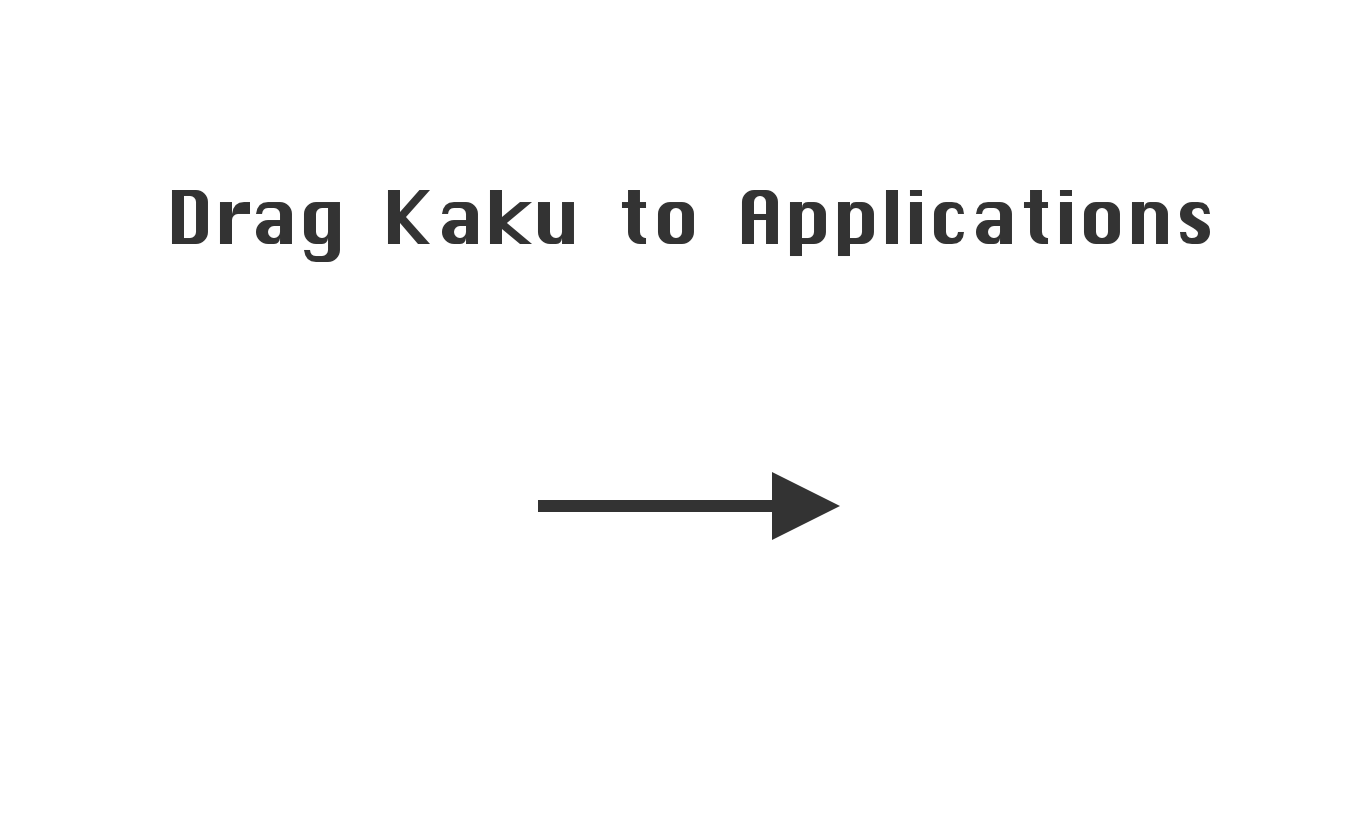
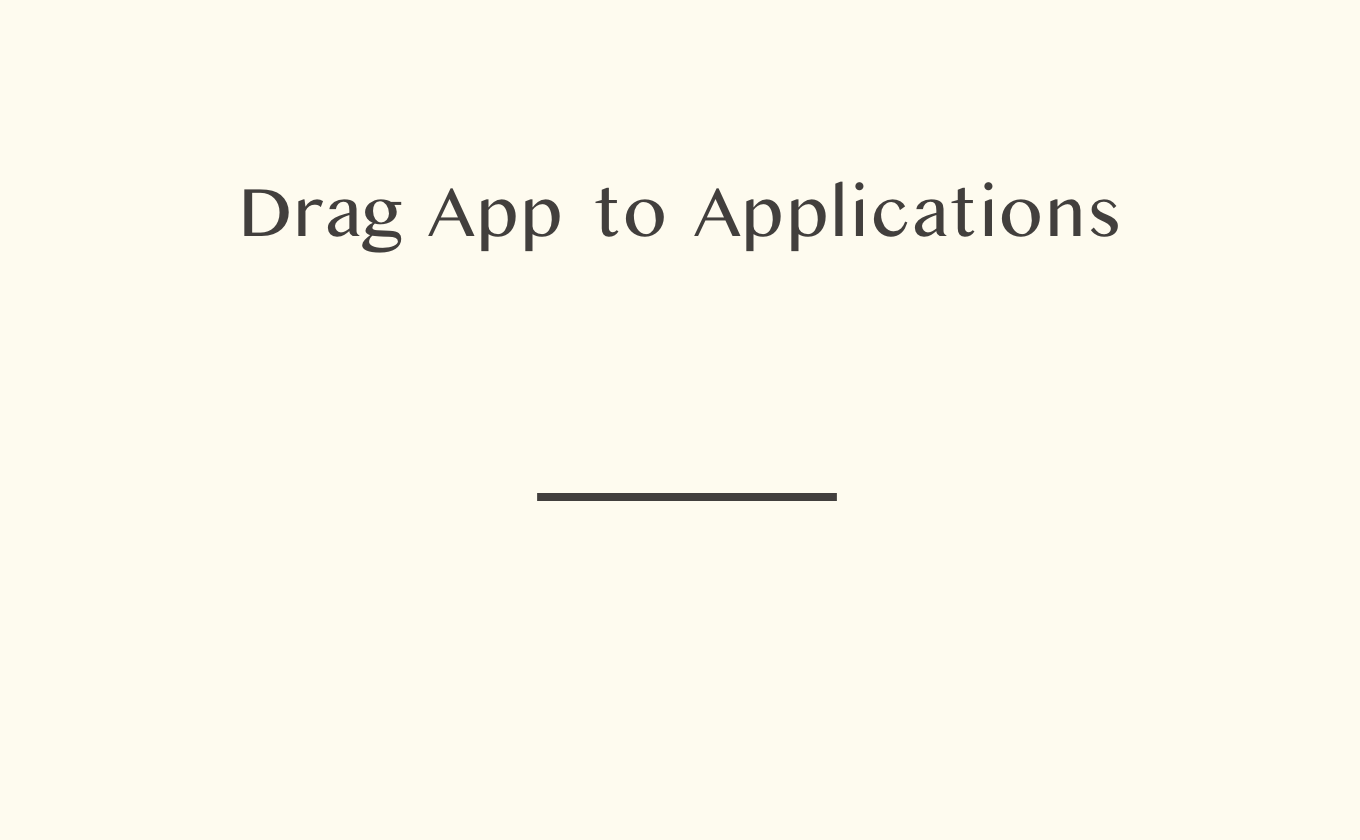
feat(color): add truecolor overrides and update build UX

Changed region(s): [[0.1235, 0.2167, 0.8956, 0.3095], [0.3706, 0.5571, 0.6176, 0.65]]

diff --git a/config/src/color.rs b/config/src/color.rs
@@ -75,6 +75,12 @@ impl From<RgbaColor> for String {
     }
 }
 
+impl std::fmt::Display for RgbaColor {
+    fn fmt(&self, f: &mut std::fmt::Formatter<'_>) -> std::fmt::Result {
+        write!(f, "{}", self.color.to_string())
+    }
+}
+
 impl From<RgbaColor> for SrgbaTuple {
     fn from(val: RgbaColor) -> Self {
         val.color
@@ -176,6 +182,12 @@ pub struct Palette {
 
     pub launcher_label_fg: Option<ColorSpec>,
     pub launcher_label_bg: Option<ColorSpec>,
+
+    /// Map true colors to replacement colors.
+    /// This is useful for overriding colors that applications output via
+    /// 24-bit true color escape sequences.
+    #[dynamic(default)]
+    pub color_overrides: HashMap<RgbaColor, RgbaColor>,
 }
 impl_lua_conversion_dynamic!(Palette);
 
@@ -229,6 +241,13 @@ impl Palette {
             input_selector_label_bg: overlay!(input_selector_label_bg),
             launcher_label_fg: overlay!(launcher_label_fg),
             launcher_label_bg: overlay!(launcher_label_bg),
+            color_overrides: {
+                let mut map = self.color_overrides.clone();
+                for (k, v) in &other.color_overrides {
+                    map.insert(*k, *v);
+                }
+                map
+            },
         }
     }
 }
@@ -265,6 +284,10 @@ impl From<ColorPalette> for Palette {
 
         for (idx, col) in cp.colors.0.iter().enumerate().skip(16) {
             p.indexed.insert(idx as u8, (*col).into());
+        }
+
+        for (&from, &to) in &cp.color_overrides {
+            p.color_overrides.insert(from.into(), to.into());
         }
 
         p
@@ -311,6 +334,9 @@ impl From<Palette> for ColorPalette {
                 continue;
             }
             p.colors.0[idx as usize] = col.into();
+        }
+        for (&from, &to) in &cfg.color_overrides {
+            p.color_overrides.insert(from.into(), to.into());
         }
         p
     }

diff --git a/term/src/color.rs b/term/src/color.rs
@@ -2,6 +2,7 @@
 
 #[cfg(feature = "use_serde")]
 use serde::{Deserialize, Deserializer, Serialize, Serializer};
+use std::collections::HashMap;
 use std::fmt;
 use std::result::Result;
 pub use wezterm_cell::color::{AnsiColor, ColorAttribute, RgbColor, SrgbaTuple};
@@ -56,6 +57,9 @@ pub struct ColorPalette {
     pub selection_bg: SrgbaTuple,
     pub scrollbar_thumb: SrgbaTuple,
     pub split: SrgbaTuple,
+    /// Map true colors to replacement colors
+    #[cfg_attr(feature = "use_serde", serde(default))]
+    pub color_overrides: HashMap<SrgbaTuple, SrgbaTuple>,
 }
 
 impl fmt::Debug for Palette256 {
@@ -69,12 +73,18 @@ impl fmt::Debug for Palette256 {
 }
 
 impl ColorPalette {
+    fn apply_override(&self, color: SrgbaTuple) -> SrgbaTuple {
+        self.color_overrides.get(&color).copied().unwrap_or(color)
+    }
+
     pub fn resolve_fg(&self, color: ColorAttribute) -> SrgbaTuple {
         match color {
             ColorAttribute::Default => self.foreground,
             ColorAttribute::PaletteIndex(idx) => self.colors.0[idx as usize],
             ColorAttribute::TrueColorWithPaletteFallback(color, _)
-            | ColorAttribute::TrueColorWithDefaultFallback(color) => color.into(),
+            | ColorAttribute::TrueColorWithDefaultFallback(color) => {
+                self.apply_override(color.into())
+            }
         }
     }
     pub fn resolve_bg(&self, color: ColorAttribute) -> SrgbaTuple {
@@ -82,7 +92,9 @@ impl ColorPalette {
             ColorAttribute::Default => self.background,
             ColorAttribute::PaletteIndex(idx) => self.colors.0[idx as usize],
             ColorAttribute::TrueColorWithPaletteFallback(color, _)
-            | ColorAttribute::TrueColorWithDefaultFallback(color) => color.into(),
+            | ColorAttribute::TrueColorWithDefaultFallback(color) => {
+                self.apply_override(color.into())
+            }
         }
     }
 }
@@ -189,6 +201,7 @@ impl ColorPalette {
             selection_bg,
             scrollbar_thumb,
             split,
+            color_overrides: HashMap::new(),
         }
     }
 }